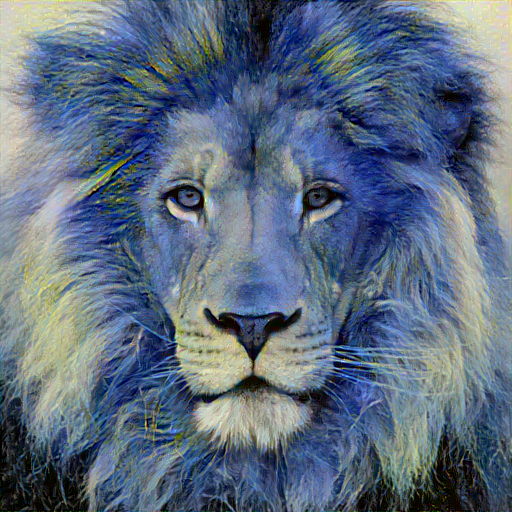
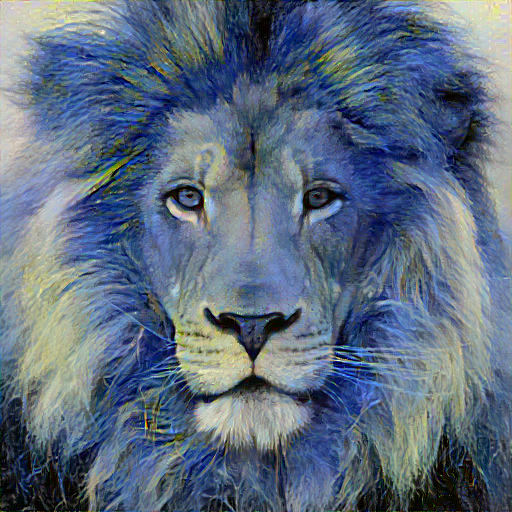
add layer-specific style weights, tune some parameters

diff --git a/model.py b/model.py
@@ -53,9 +53,9 @@ class TotalVariationLoss(nn.Module):
 
     def forward(self, input):
         b, c, h, w = input.size()
-        w_variance = torch.sum(torch.pow(input[:, :, :, :-1] - input[:, :, :, 1:], 2))
-        h_variance = torch.sum(torch.pow(input[:, :, :-1, :] - input[:, :, 1:, :], 2))
-        self.loss = (w_variance + h_variance) / (b * c * h * w) ** 2
+        w_variance = torch.sum(torch.abs(input[:, :, :, :-1] - input[:, :, :, 1:]) / 256.0)
+        h_variance = torch.sum(torch.abs(input[:, :, :-1, :] - input[:, :, 1:, :]) / 256.0)
+        self.loss = (w_variance + h_variance)
         return input
 
 # create a module to normalize input image so we can easily put it in a
@@ -73,15 +73,16 @@ class Normalization(nn.Module):
         # normalize img
         return (img - self.mean) / self.std
 
-
+# TODO: maybe refactor this monstrous function
 def build_model_and_losses(
         device,
         style_img,
         content_img,
-        use_avg_pool = True,
+        use_avg_pool=True,
         content_layers=content_layers_default,
         style_layers=style_layers_default,
     ):
+
     cnn = models.vgg19(pretrained=True).features.to(device).eval()
 
     cnn_normalization_mean = torch.tensor([0.485, 0.456, 0.406]).to(device)
@@ -100,9 +101,8 @@ def build_model_and_losses(
     # to put in modules that are supposed to be activated sequentially
     model = nn.Sequential(normalization)
 
-    tv_loss_module = TotalVariationLoss()
-    model.add_module("total_variation_loss", tv_loss_module)
-    tv_loss = tv_loss_module
+    tv_loss = TotalVariationLoss()
+    model.add_module("total_variation_loss", tv_loss)
 
     i = 1 # increment every time we see a conv
     j = 0 # increment every time we see a pool
@@ -150,10 +150,10 @@ def build_model_and_losses(
             style_ind += 1
 
     # now we trim off the layers after the last content and style losses
-    for i in range(len(model) - 1, -1, -1):
-        if isinstance(model[i], ContentLoss) or isinstance(model[i], StyleLoss):
+    for k in range(len(model) - 1, -1, -1):
+        if isinstance(model[k], ContentLoss) or isinstance(model[k], StyleLoss):
             break
 
-    model = model[: (i + 1)]
+    model = model[: (k + 1)]
 
     return model, style_losses, content_losses, tv_loss

diff --git a/styler.py b/styler.py
@@ -16,23 +16,33 @@ device = torch.device("cuda" if torch.cuda.is_available() else "cpu")
 
 @dataclass
 class StyleConfig:
+    '''
+    Style Transfer settings. One config per Styler instance.
+    '''
+    # pylint: disable=too-many-instance-attributes
     num_iters: int = 250
     use_avg_pool: bool = True
     content_weight: int = 5e0
     style_weight: int = 1e6
-    tv_weight: int = 5e5
+    tv_weight: int = 1e-4
     content_layers: List[str] = field(default_factory=lambda: ["conv4_2"])
     style_layers: List[str] = field(default_factory=lambda:
                                     ['relu1_1', 'relu2_1', 'relu3_1', 'relu4_1', 'relu5_1'])
+    style_layer_weights: List[int] = field(default_factory=lambda: [1.0, 2.0, 4.0, 8.0, 8.0])
 
 
 class Styler:
     '''
-    Initialize with a StyleConfig instance. 
+    Initialize with a StyleConfig instance.
     See style_single_image.py for an example of usage.
     '''
     def __init__(self, cfg):
+        self._validate_config(cfg)
         self.cfg = cfg
+
+    def _validate_config(self, cfg):
+        assert len(cfg.style_layers) == len(cfg.style_layer_weights), (
+            "style layer weights must correspond to style layers!")
 
     def get_input_optimizer(self, input_img):
         # this line to show that input is a parameter that requires a gradient
@@ -51,7 +61,7 @@ class Styler:
             content_img,
             self.cfg.use_avg_pool,
             self.cfg.content_layers,
-            self.cfg.style_layers
+            self.cfg.style_layers,
         )
         optimizer = self.get_input_optimizer(input_img)
 
@@ -69,8 +79,8 @@ class Styler:
                 content_score = 0
                 tv_score = 0
 
-                for sl in style_losses:
-                    style_score += sl.loss
+                for sl, weight in zip(style_losses, self.cfg.style_layer_weights):
+                    style_score += sl.loss * weight
                 for cl in content_losses:
                     content_score += cl.loss
 
